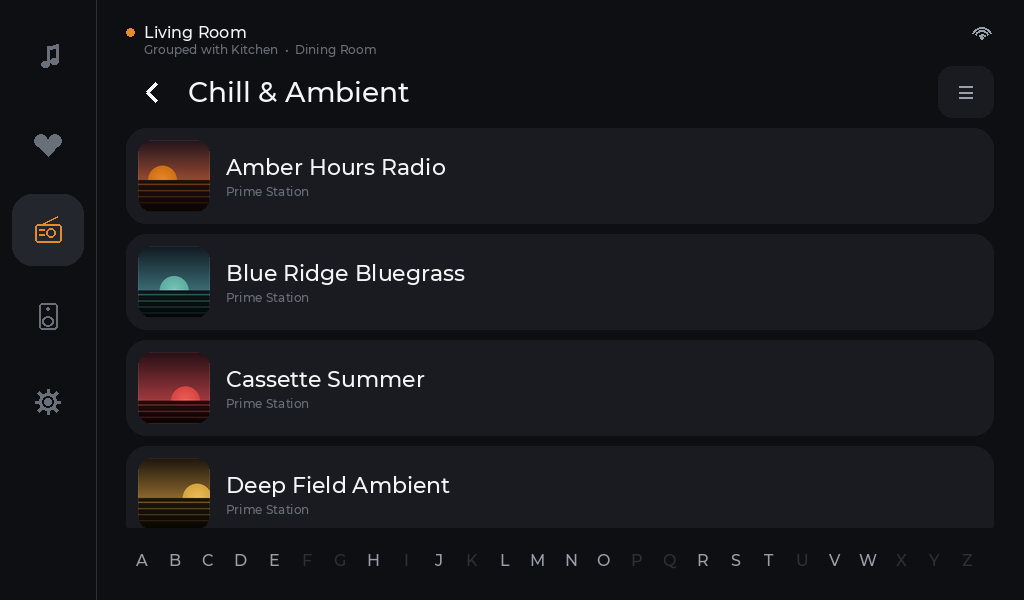
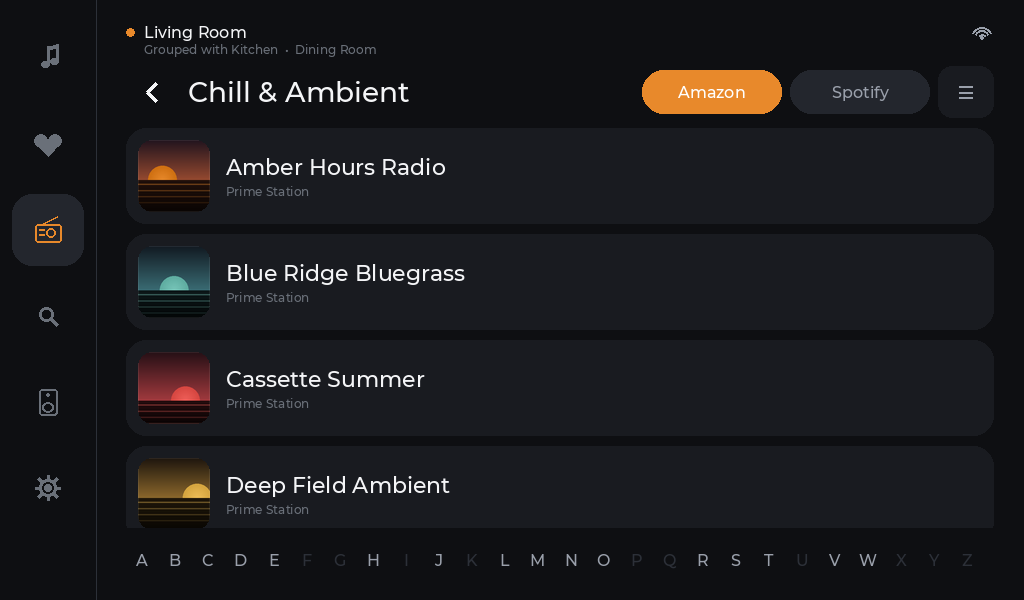
docs: put Search and the Radio sources into the README showcase
Merges main's rebuilt README (#22) and writes the new feature into it rather
than beside it.

The jukebox is six screens now, not five. Search gets its own full-width image
and the paragraph explains the thing that is actually interesting about it: the
device holds ITS OWN Spotify account, linked once by scanning a QR on the panel,
so a live search runs with no Sonos app, no cloud service of ours, and nothing
on the network but the speakers. The two-pane layout is described as what it is
— a 600 px-tall panel has room for one result under a full-width keyboard, so
the keyboard takes the left 484 px and the results the right 380.

Radio's caption now says two sources behind one toggle, never blended, with what
each actually contains.

The screens are RENDERED, not photographed, and render_jukebox_screens.py says
plainly that the README starts lying if a layout constant drifts — so the
renderer is updated with the firmware rather than the images being hand-edited:
a six-item rail with a search glyph, the Amazon/Spotify toggle on Radio with the
same 64 px clearance the firmware needed to stop it sitting under the search
button, and a new render_search() whose coordinates come from buildSearch().

Two keyboard glyphs are drawn as primitives rather than typed, for the reason
the script already documents about icons: Montserrat has no backspace or check
glyph, and typing them renders tofu.

Status names what is proven and what is not: playing a searched track works on
[…]

diff --git a/docs/mockups/render_jukebox_screens.py b/docs/mockups/render_jukebox_screens.py
@@ -283,7 +283,15 @@ def ic_list(d, cx, cy, s, fill):
         d.line([(cx - s * 0.30, cy + dy), (cx + s * 0.30, cy + dy)], fill=fill, width=w)
 
 
-RAIL_ICONS = (ic_note, ic_heart, ic_radio, ic_speaker, ic_gear)
+def ic_search(d, cx, cy, s, fill):
+    w = max(2, int(s * 0.11))
+    r = s * 0.24
+    d.ellipse([cx - r - s * 0.06, cy - r - s * 0.06, cx + r - s * 0.06, cy + r - s * 0.06],
+              outline=fill, width=w)
+    d.line([(cx + r * 0.55, cy + r * 0.55), (cx + s * 0.34, cy + s * 0.34)], fill=fill, width=w)
+
+
+RAIL_ICONS = (ic_note, ic_heart, ic_radio, ic_search, ic_speaker, ic_gear)
 
 
 # --- Placeholder album art --------------------------------------------------------------------
@@ -346,10 +354,14 @@ def _cover(size: int, variant: int = 0, bands: bool = True) -> Image.Image:
 # Shared chrome
 # ==============================================================================================
 def draw_rail(d: ImageDraw.ImageDraw, F: Fonts, active: int):
-    """screens.cpp:337 — 96 px rail, 72 px items on an 86 px pitch, hairline divider."""
+    """screens.cpp:337 — 96 px rail, 72 px items on an 86 px pitch, hairline divider.
+
+    SIX entries since Search landed: Now / Favorites / Radio / Search / Rooms / Settings. They fit
+    without touching the geometry — PAD_TOP 22 + 6 x 86 = 538, under SCREEN_H 600.
+    """
     panel(d, 0, 0, RAIL_W, SCREEN_H, BG)
     panel(d, RAIL_W, 0, 1, SCREEN_H, LINE)
-    for i in range(5):
+    for i in range(len(RAIL_ICONS)):
         x = (RAIL_W - RAIL_BTN) // 2
         y = PAD_TOP + i * RAIL_STEP
         if i == active:
@@ -433,7 +445,7 @@ ROOMS = [
 
 def render_rooms(F: Fonts) -> Image.Image:
     img, d = new_screen()
-    draw_rail(d, F, 3)
+    draw_rail(d, F, 4)      # Rooms moved down one when Search took index 3
     draw_status(d, F, "Living Room", "Grouped with Kitchen" + SEP + "Dining Room", True)
 
     x = CONTENT_X
@@ -531,6 +543,17 @@ def render_radio(F: Fonts) -> Image.Image:
     panel(d, sb_x, sb_y, 56, 52, ELEV, radius=R_MD)
     ic_list(d, sb_x + 28, sb_y + 26, 22, MUTED)
 
+    # Source toggle — Amazon or Spotify, one at a time, never blended (screens.cpp, buildRadio).
+    # 64 px of clearance on the right because the search button above is TOP_RIGHT-aligned and
+    # 56 px wide; without it the second pill sits underneath it, which is what shipped first.
+    tw, tgap = 140, 8
+    tx = x + CONTENT_W - 64 - (tw * 2 + tgap)
+    for i, (nm, on) in enumerate((("Amazon", True), ("Spotify", False))):
+        px = tx + i * (tw + tgap)
+        panel(d, px, PAD_TOP + 48, tw, 44, ACCENT if on else ELEV2, radius=22)
+        text(d, (px + tw // 2, PAD_TOP + 48 + 22), nm, F(16),
+             ACCENT_INK if on else MUTED, anchor="mm")
+
     # The list is a scroll container, so rows are drawn into a layer the size of its viewport and
     # pasted — the row straddling the bottom edge then truncates the way it does on the panel,
     # rather than being skipped and leaving a hole.
@@ -560,6 +583,90 @@ def render_radio(F: Fonts) -> Image.Image:
     for i in range(26):
         text(d, (x + i * step + step // 2, ay + 22), chr(65 + i), F(16),
              MUTED if i in have else LINE, anchor="mm")
+    return img
+
+
+def render_search(F: Fonts) -> Image.Image:
+    """Search: two panes. Keyboard and category chips left, results right.
+
+    The split is the point and the numbers are from screens.cpp's buildSearch(): content is
+    880 x 600 (1024 less the 96 px rail and two 30 px gutters), left column 484, right column 380
+    starting at x+500. A full-width keyboard would be 880 px of a 600 px-tall screen spent on
+    something that needs ~500, with the results stacked underneath where one row fits.
+    """
+    img, d = new_screen()
+    draw_rail(d, F, 3)
+    draw_status(d, F, "Living Room", "Grouped with Kitchen" + SEP + "Dining Room", True)
+
+    x = CONTENT_X
+    LEFT_W, RIGHT_X, TOP = 484, 500, PAD_TOP + 44
+    RIGHT_W = CONTENT_W - RIGHT_X
+
+    # Query field. No page header: the accent-lit rail glyph says which page this is and the
+    # placeholder says what to type, and 44 px of header is a whole result row.
+    panel(d, x, TOP, LEFT_W, 56, ELEV, radius=R_MD)
+    text(d, (x + 16, TOP + 28), "bohemian", F(22), TEXT, anchor="lm")
+    d.line([(x + 16 + 104, TOP + 14), (x + 16 + 104, TOP + 42)], fill=ACCENT, width=2)
+
+    # Five chips on a 96 px pitch, 92 wide. "All" is selected.
+    for i, nm in enumerate(("All", "Tracks", "Artists", "Albums", "Playlists")):
+        cx = x + i * 96
+        on = (i == 0)
+        panel(d, cx, TOP + 68, 92, 40, ACCENT if on else ELEV2, radius=20)
+        text(d, (cx + 46, TOP + 88), nm, F(16), ACCENT_INK if on else MUTED, anchor="mm")
+
+    # Keyboard: the reduced map — 26 letters, digits behind one key, space, backspace, submit.
+    # No $ % ^ & *, and no X, because a permanent keyboard has nowhere to close to.
+    kb_y = TOP + 120
+    kb_h = SCREEN_H - kb_y - PAD_BOT
+    panel(d, x, kb_y, LEFT_W, kb_h, ELEV, radius=R_MD)
+    rows = ("qwertyuiop", "asdfghjkl", "zxcvbnm")
+    rh = kb_h // 4
+    for r, row in enumerate(rows):
+        n = len(row) + (1 if r == 2 else 0)
+        kw = (LEFT_W - 12) // n
+        off = x + 6 + (LEFT_W - 12 - kw * n) // 2
+        for c, ch in enumerate(row):
+            kx = off + c * kw
+            panel(d, kx + 2, kb_y + 6 + r * rh, kw - 4, rh - 6, ELEV2, radius=8)
+            text(d, (kx + kw // 2, kb_y + 6 + r * rh + (rh - 6) // 2), ch, F(20), TEXT, anchor="mm")
+        if r == 2:                                   # backspace shares the bottom letter row
+            kx = off + len(row) * kw
+            panel(d, kx + 2, kb_y + 6 + r * rh, kw - 4, rh - 6, ELEV2, radius=8)
+            # Drawn, not typed: Montserrat has no backspace glyph, and the device draws this
+            # one from a subsetted LVGL symbol font that cannot be rendered here either.
+            ic_left(d, kx + kw // 2, kb_y + 6 + r * rh + (rh - 6) // 2, 20, MUTED)
+    # Bottom row: 1#  space  submit, on 2:6:2 widths.
+    by = kb_y + 6 + 3 * rh
+    units = (("1#", 2, ELEV2, MUTED), ("", 6, ELEV2, MUTED), (None, 2, ACCENT, ACCENT_INK))
+    ux = x + 6
+    for label, wgt, fill, ink in units:
+        uw = (LEFT_W - 12) * wgt // 10
+        panel(d, ux + 2, by, uw - 4, rh - 6, fill, radius=8)
+        if label:
+            text(d, (ux + uw // 2, by + (rh - 6) // 2), label, F(20), ink, anchor="mm")
+        elif label is None:                          # submit — drawn, same reason as backspace
+            ic_check(d, ux + uw // 2, by + (rh - 6) // 2, 22, ink)
+        ux += uw
+
+    # Results: 88 px rows on a 96 px pitch, five visible in a 516 px column.
+    rows_out = (("Bohemian Rhapsody", "Track  --  Queen"),
+                ("Bohemian Rhapsody", "Album  --  Queen"),
+                ("Queen", "Artist"),
+                ("Queen Radio", "Station"),
+                ("Bohemian Nights", "Playlist  --  Fictional Mixes"))
+    ry0 = TOP
+    for i, (title, sub) in enumerate(rows_out):
+        ry = ry0 + i * 96
+        if ry + 88 > SCREEN_H - PAD_BOT:
+            break
+        panel(d, x + RIGHT_X, ry, RIGHT_W, 88, ELEV, radius=R_LG)
+        tile = _cover(64, variant=i + 1)
+        m = Image.new("L", (64, 64), 0)
+        ImageDraw.Draw(m).rounded_rectangle([0, 0, 63, 63], radius=R_MD, fill=255)
+        img.paste(tile, (x + RIGHT_X + 8, ry + 12), m)
+        text(d, (x + RIGHT_X + 80, ry + 44 - 11 - 11), title, F(22), TEXT)
+        text(d, (x + RIGHT_X + 80, ry + 44 + 15 - 6), sub, F(12), DIM)
     return img
 
 
@@ -611,6 +718,7 @@ def main() -> None:
         "jukebox-now-playing.png": render_now_playing(F),
         "jukebox-rooms.png":       render_rooms(F),
         "jukebox-radio.png":       render_radio(F),
+        "jukebox-search.png":      render_search(F),
         "jukebox-screensaver.png": render_screensaver(F, font_path),
     }
     for name, im in screens.items():

diff --git a/README.md b/README.md
@@ -30,8 +30,8 @@ risk, which the docs are honest about rather than quiet about.
 
 ### sonos-jukebox — the wall panel
 
-A 7" landscape touchscreen on an **ESP32-P4**, wall-mounted, always awake. Five screens off a
-nav rail — Now Playing, Favorites, Radio, Rooms, Settings — a physical dial, and album art.
+A 7" landscape touchscreen on an **ESP32-P4**, wall-mounted, always awake. Six screens off a
+nav rail — Now Playing, Favorites, Radio, Search, Rooms, Settings — a physical dial, and album art.
 
 ![Now Playing](docs/images/jukebox-now-playing.png)
 
@@ -48,11 +48,25 @@ death (3.00 SOAP calls/sec became 0.09).
 <td><b>Rooms</b> — a checkbox per room joins or leaves the active group, with per-room volume,
 per-room play/pause, and a group summary bar over the top. Live volume and transport for every
 room, polled only while you are looking at the page.</td>
-<td><b>Radio</b> — 26 genres and ~1,050 Amazon Prime Stations, crawled onto the SD card with
-artwork, browsable with an A–Z jump strip and a global search. No Sonos app involved, at any
-point.</td>
+<td><b>Radio</b> — two sources behind one toggle, never blended. <b>Amazon</b>: 26 genres and
+~1,050 Prime Stations crawled onto the SD card with artwork, an A–Z jump strip and a global
+search. <b>Spotify</b>: charts, playlists, genres and your own library, browsed live. No Sonos app
+involved, at any point.</td>
 </tr>
 </table>
+
+![Search](docs/images/jukebox-search.png)
+
+**Search** is the one screen that goes out to a music service live. Type, and results arrive in
+about a second — tracks, artists, albums, playlists, and an artist's own radio. Tap a track and it
+plays; tap an album or an artist and it opens, because containers are browsed rather than guessed
+at. The device holds **its own Spotify account**, linked once by scanning a QR on the panel; no
+Sonos app, no cloud service of ours, and nothing on the network but the speakers.
+
+The layout is the screen shape doing work: a full-width keyboard on a 600 px-tall panel leaves
+room for one result, so the keyboard takes the left 484 px and the results the right 380 — both
+permanent, nothing to dismiss. The keymap is cut down to what a music query actually contains,
+which is why there is no `$ % ^ &` and no close button.
 
 ![Screensaver](docs/images/jukebox-screensaver.png)
 
@@ -68,8 +82,9 @@ freezes the UI rather than dropping a frame.
 > **Read before touching it:** [`plans/07-sonos-jukebox.md`](plans/07-sonos-jukebox.md) — this is
 > RISC-V silicon on a different toolchain, and several of its failure modes are silent.
 > Screensaver: [`plans/10`](plans/10-jukebox-screensaver.md) · Radio and the music-service
-> research: [`plans/08`](plans/08-music-service-integration.md) · eventing:
-> [`plans/09`](plans/09-gena-eventing.md).
+> research: [`plans/08`](plans/08-music-service-integration.md) · Search, the Radio sources, and
+> the six hardware-only bugs building them turned up:
+> [`plans/12`](plans/12-jukebox-search.md) · eventing: [`plans/09`](plans/09-gena-eventing.md).
 
 ---
 
@@ -266,6 +281,7 @@ CI builds all five app envs on every PR and every push to `main`.
 | Flash from WSL | [`docs/flashing-wsl.md`](docs/flashing-wsl.md) |
 | Work on the jukebox | [`plans/07`](plans/07-sonos-jukebox.md), then [`plans/10`](plans/10-jukebox-screensaver.md) |
 | Add a music service, or know why one is impossible | [`plans/08`](plans/08-music-service-integration.md) |
+| Touch `core/spotify`, `core/smapi` or the artwork cache | [`plans/12`](plans/12-jukebox-search.md) § 12 first |
 | Train a wake word | [`plans/03`](plans/03-wake-word-integration.md), [`training/wake-word/`](training/wake-word/) |
 | Run the portal | [`sonos-portal/README.md`](sonos-portal/README.md) |
 | Ship firmware to many devices | [`plans/06-scalable-ota.md`](plans/06-scalable-ota.md) |
@@ -283,6 +299,7 @@ gotcha that cost someone a day is written down there, at length, with the reason
 The jukebox, nest, sleep-machine and both buttons all work and are in daily use. Known open
 items: the jukebox's four transport buttons and its case; the sleep-machine's RGB LED; a third
 wake word that trains but does not fire; and one unresolved ESP-Hosted link fault on the P4 that
-recovers by reboot rather than being cured. Each is written up where it lives.
+recovers by reboot rather than being cured. On Search, playing a track is proven on hardware and
+playing an artist *station* is not yet. Each is written up where it lives.
 
 Sonos is a third party and is not affiliated with this project.
